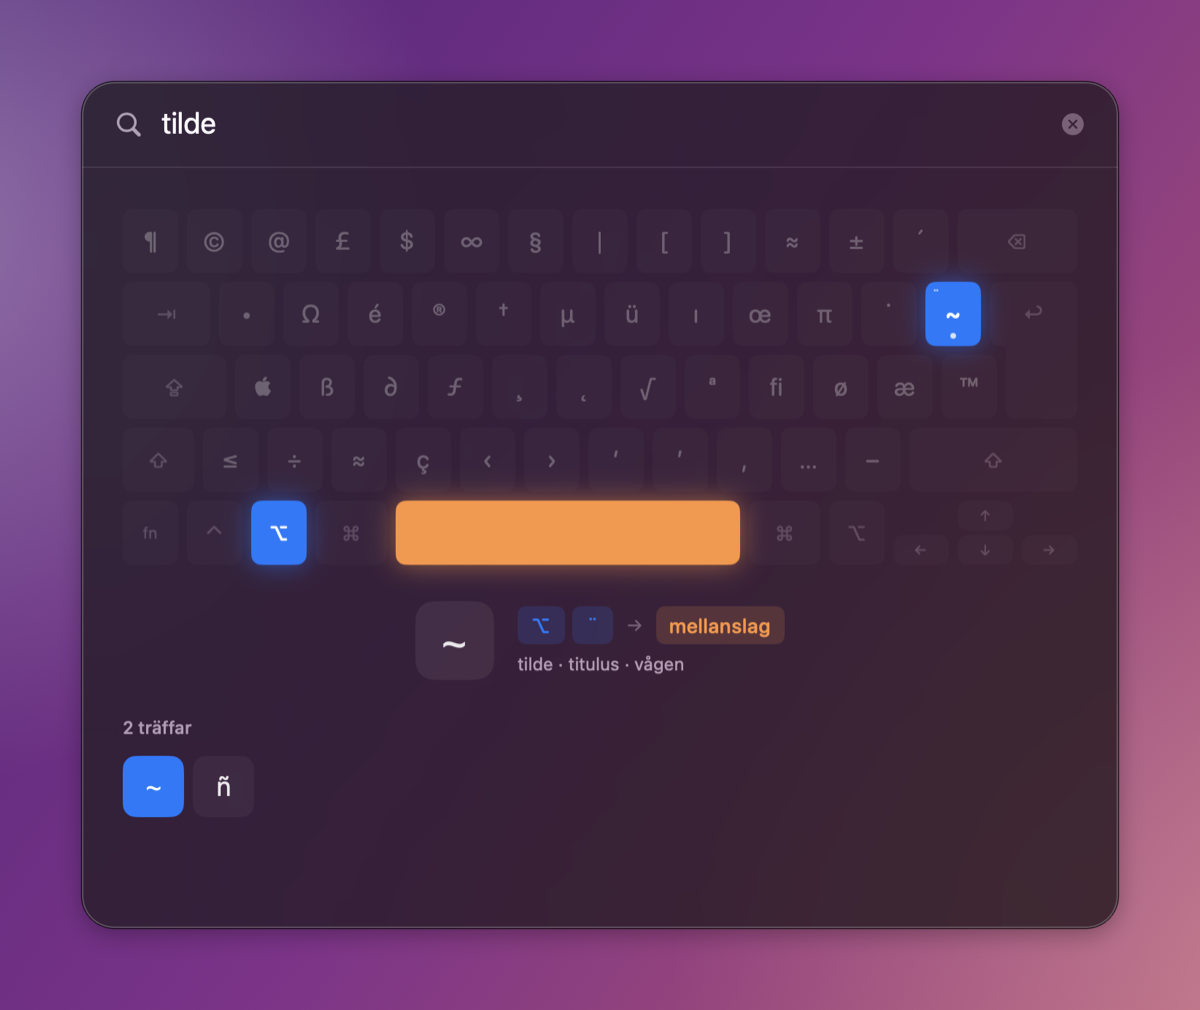
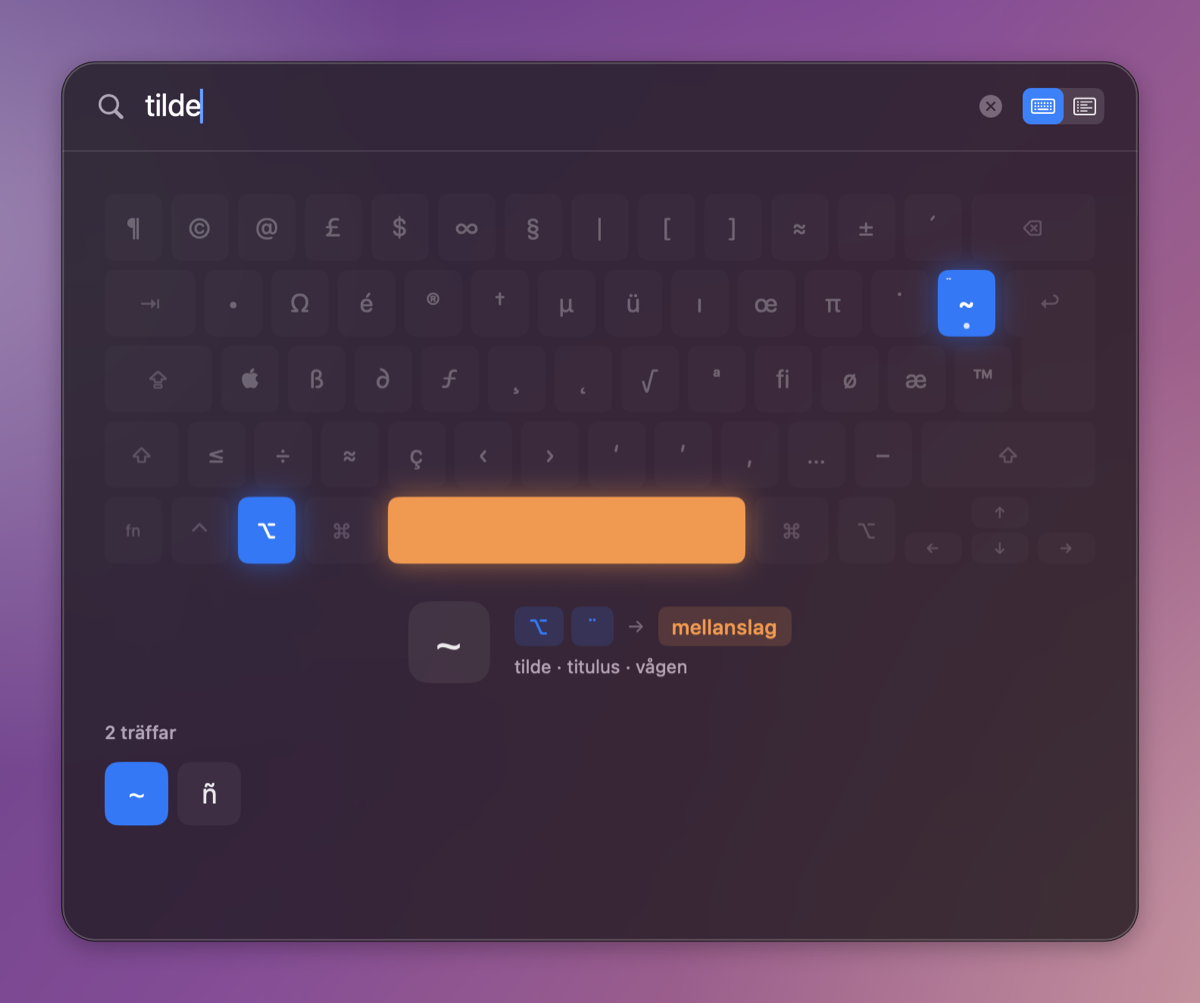
Update screenshots and add one of cheat sheet mode

diff --git a/README.md b/README.md
@@ -25,6 +25,8 @@ Tangent is a menu bar app. **Double-tap ⌘** anywhere and a virtual keyboard sh
 
 ## Cheat sheets
 
+![Cheat sheet mode](docs/cheat-sheets.png)
+
 Press **⇥** in the helper to switch to cheat sheet mode. The first sheet lists every menu shortcut in the app you were using. Reading another app's menus needs Accessibility permission, which Tangent asks for the first time you open that sheet.
 
 Your own sheets live in `~/.config/tangent` as `.md` or `.txt` files, and the search field searches all of them:
